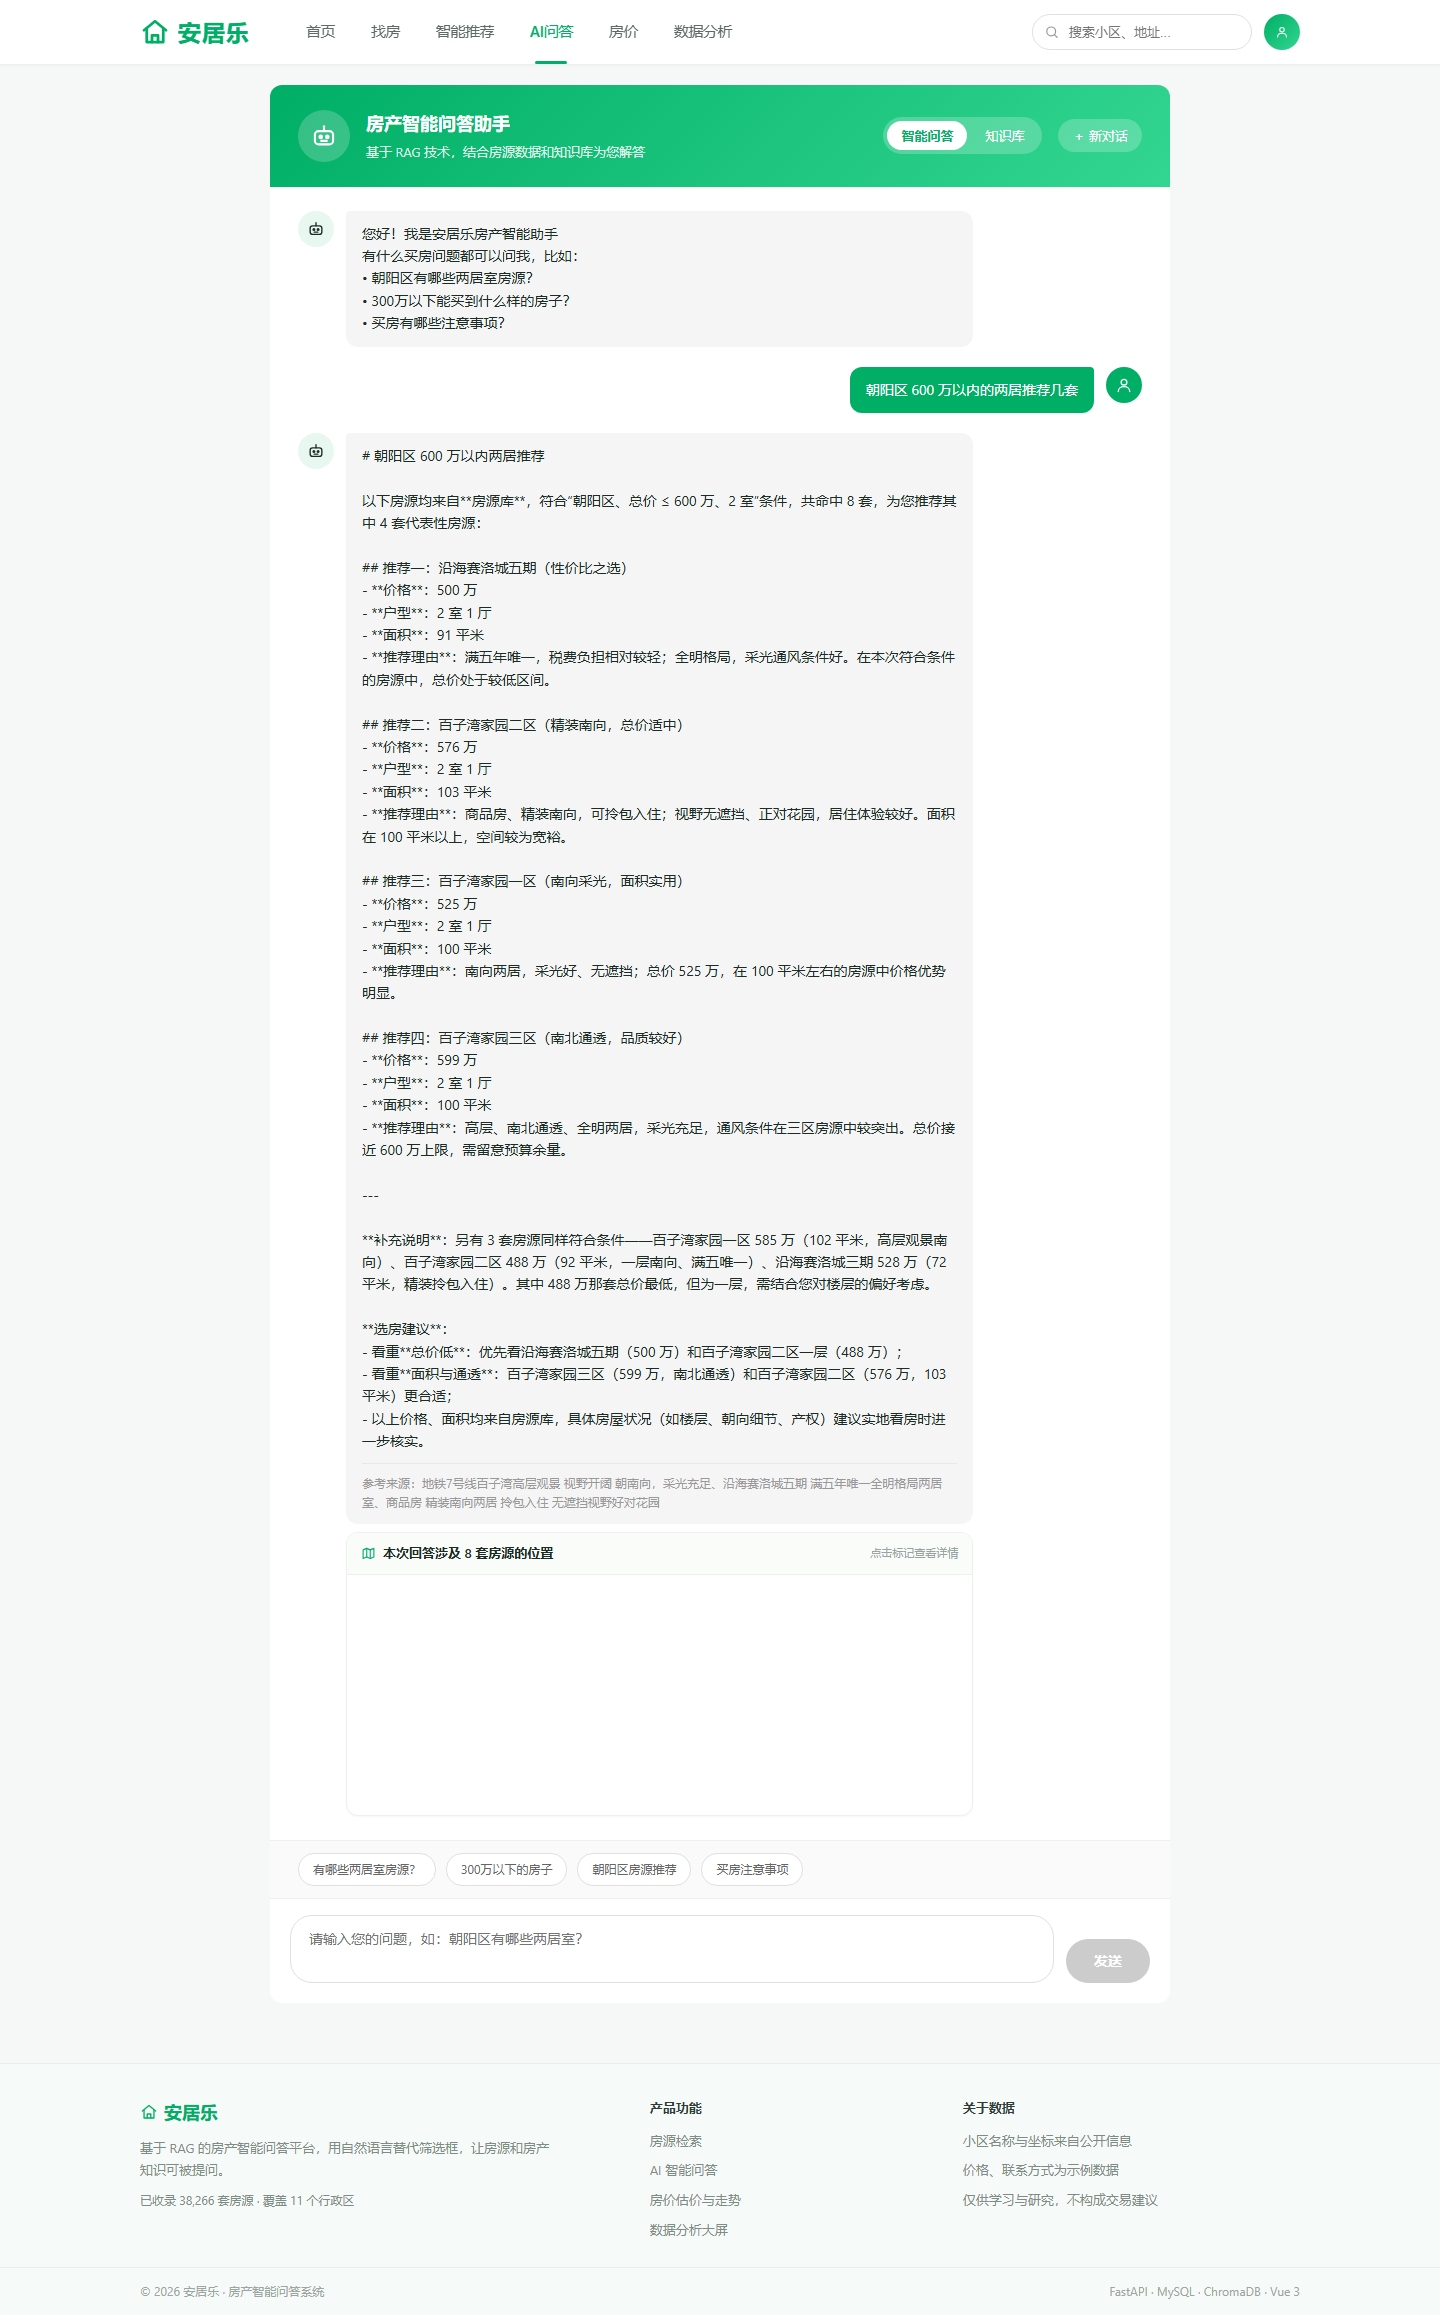
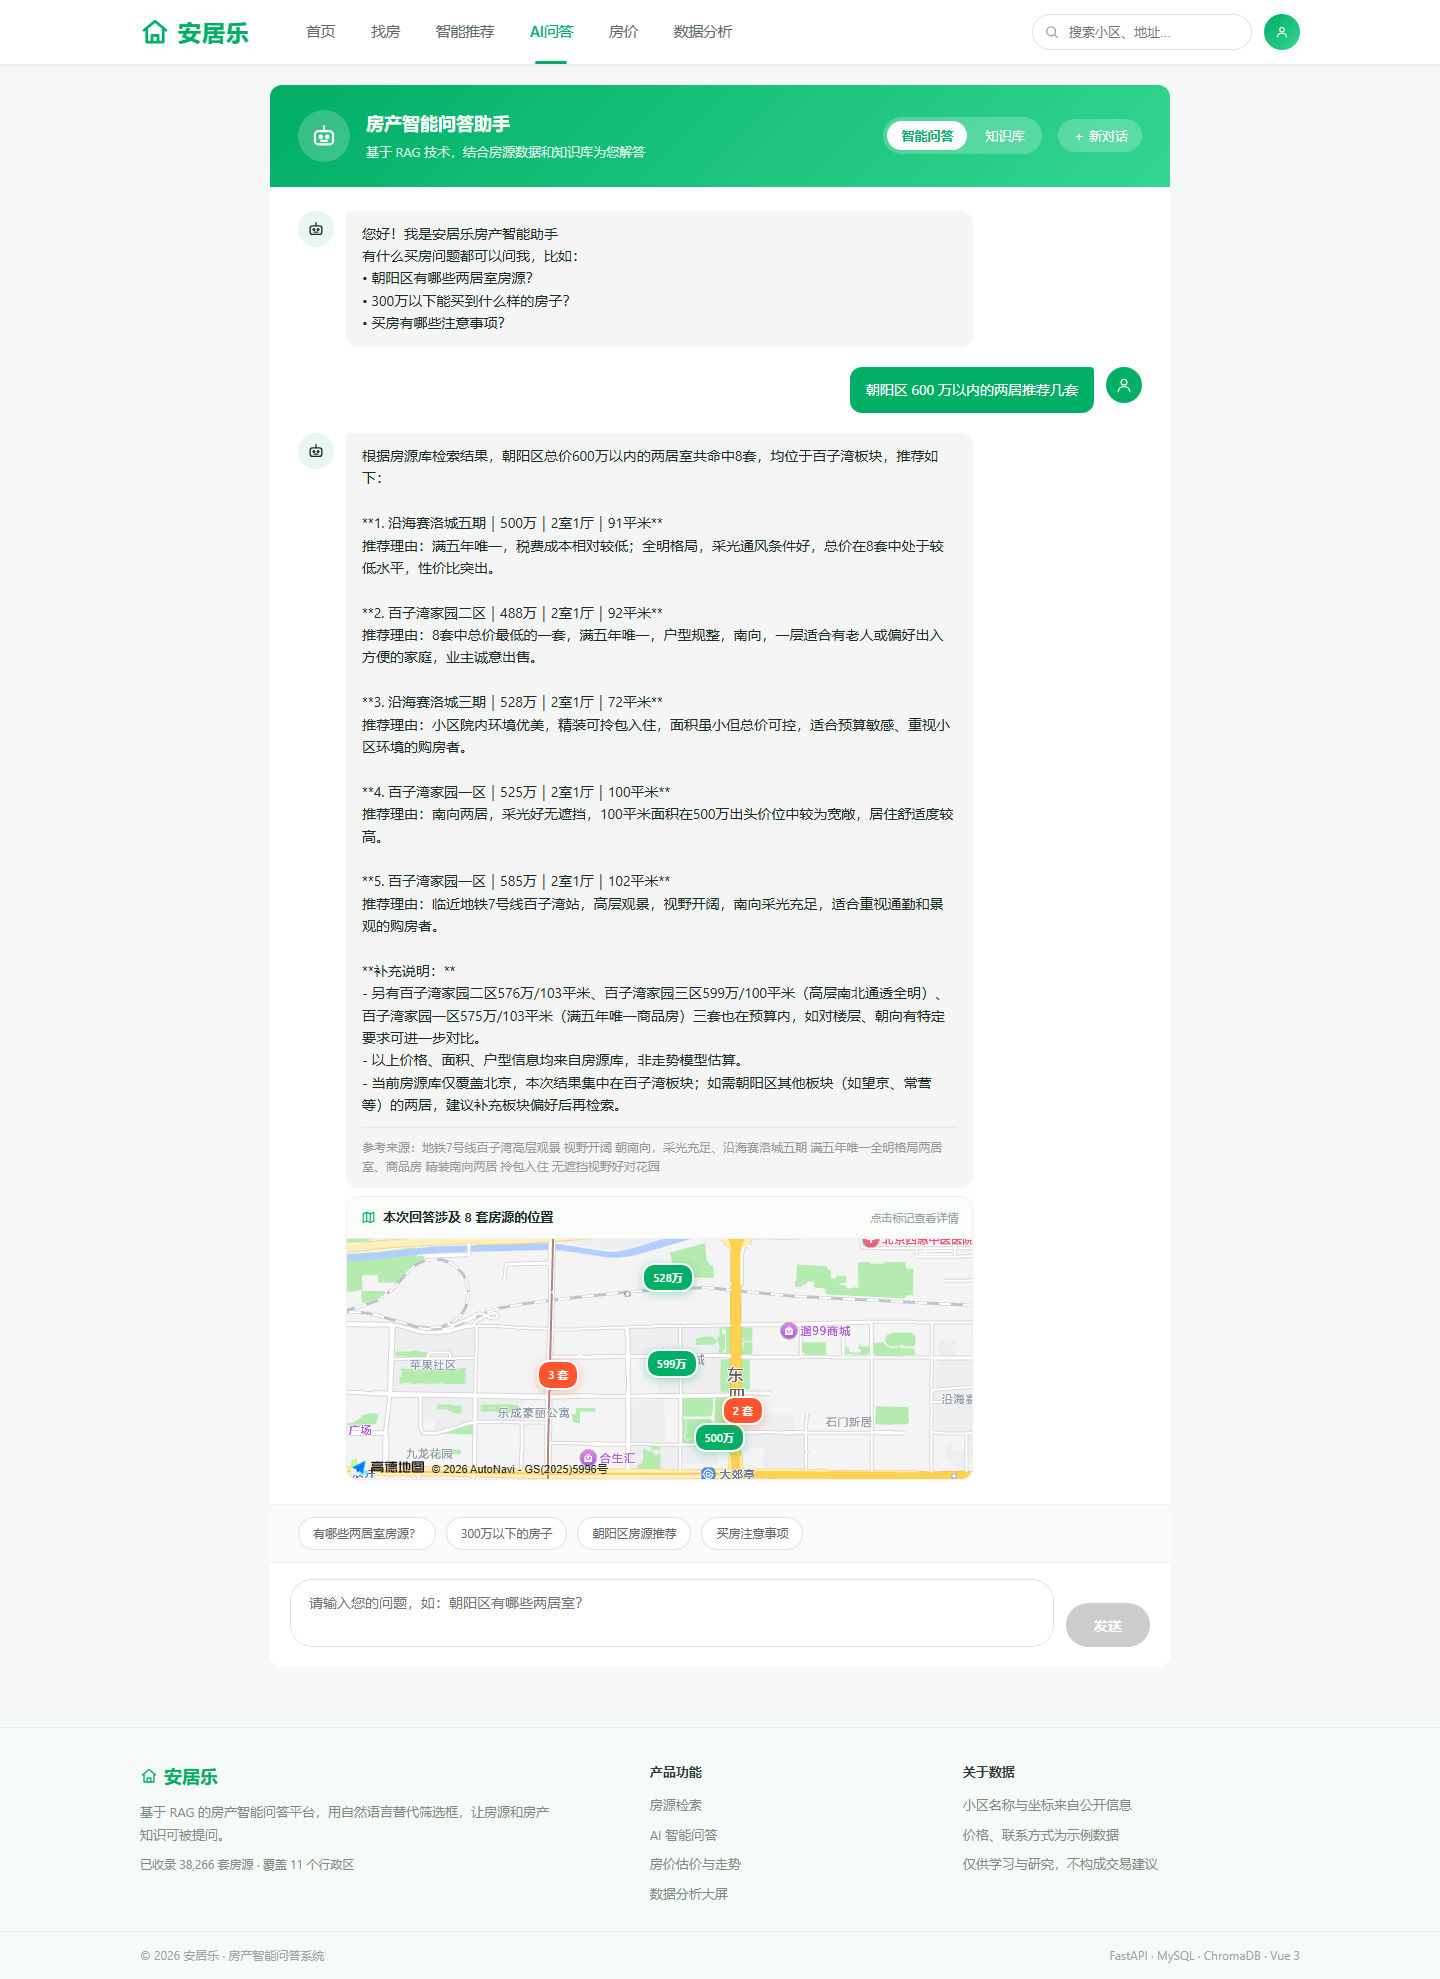
fix: 修复问答页房源地图不加载 SDK，统一访问地址为 127.0.0.1
- renderChatMap 补上 loadAmapSdk 调用，重试上限 30 次后输出日志（原先只重试、无上限、永不加载）

- 重新生成 AI 问答截图，包含本轮命中房源的聚合地图

- README 访问地址统一为 127.0.0.1，并说明高德 Key 白名单对 localhost / 127.0.0.1 的区分

- 问题记录补充 INVALID_USER_DOMAIN 条目

diff --git a/app/static/js/main.js b/app/static/js/main.js
@@ -1301,7 +1301,19 @@ const { createApp, ref, computed, watch, onMounted, nextTick } = Vue;
           const pois = (messages.value[idx] && messages.value[idx].externalPois) || [];
           const el = document.getElementById('chatMap-' + idx);
           if (!el || (!list.length && !pois.length)) return;
-          if (typeof AMap === 'undefined') { setTimeout(() => renderChatMap(idx), 500); return; }
+          if (typeof AMap === 'undefined') {
+            // 同 ensureNearbyMap：用户可能从首页直接进问答页，SDK 尚未注入，
+            // 只重试不加载会永远停在空白地图。这里主动拉起并限制重试次数。
+            loadAmapSdk();
+            const tries = (parseInt(el.dataset.mapRetry || '0', 10) || 0) + 1;
+            el.dataset.mapRetry = String(tries);
+            if (tries <= 30) {
+              setTimeout(() => renderChatMap(idx), 500);
+            } else {
+              console.warn('地图 SDK 未就绪，停止重试：请检查 AMAP_JS_KEY 与高德控制台的域名白名单');
+            }
+            return;
+          }
           // 切 tab 回来时 v-if 刚重建 DOM，浏览器可能还没完成 layout，容器是 0×0。
           // 此刻 new AMap.Map 会建出一个 0×0 画布，且之后不会自愈——表现就是
           // 「卡片标题都在、地图区域一片空白」。所以等容器真有尺寸再初始化。

diff --git a/README.md b/README.md
@@ -612,12 +612,18 @@ copy .env.example .env
 python run.py
 ```
 
-访问：
+访问（**统一用 `127.0.0.1`，不要用 `localhost`**，原因见下）：
 
-- 系统首页 http://localhost:8001/
-- 管理后台 http://localhost:8001/admin
-- Swagger http://localhost:8001/docs ｜ ReDoc http://localhost:8001/redoc
-- 健康检查 http://localhost:8001/health
+- 系统首页 <http://127.0.0.1:8001/>
+- 管理后台 <http://127.0.0.1:8001/admin>
+- Swagger <http://127.0.0.1:8001/docs> ｜ ReDoc <http://127.0.0.1:8001/redoc>
+- 健康检查 <http://127.0.0.1:8001/health>
+
+> **高德 Key 的域名白名单必须与访问地址一致。**
+> 高德把 `localhost` 和 `127.0.0.1` 当成两个不同域名：白名单只填了 `127.0.0.1` 时，
+> 用 `localhost` 打开不报页面错误，但浏览器控制台会打出
+> `FlyDataAuthTask error: INVALID_USER_DOMAIN`，地图能力随之失效。
+> 最省事的做法是在高德控制台把两个都加进白名单；只加一个的话，就必须用对应的那个地址访问。
 
 ### 首次使用
 
@@ -671,6 +677,8 @@ python run.py
 | 11 | 无坐标房源地图空白 | 建图函数直接 return | 空态提示「该房源暂无坐标」 |
 | 12 | 详情页周边地图一直「加载中」 | `ensureNearbyMap` 只重试不加载 SDK；没进过「地图找房」时 SDK 从未注入 | 建图前主动调一次 `loadAmapSdk()`（幂等） |
 | 13 | 有 POI 列表但地图上没有标记 | 周边数据先于 SDK 就绪，`renderNearbyPois` 因 `_dpMap` 尚未创建被跳过 | 地图 `complete` 回调里补画一次 |
+| 14 | 问答页「涉及 N 套房源」的地图空白 | `renderChatMap` 同样是只重试不加载 SDK，且重试无上限 | 主动 `loadAmapSdk()`，重试上限 30 次后打日志 |
+| 15 | 用 `localhost` 打开时地图能力异常 | 高德把 `localhost` / `127.0.0.1` 视为两个域名，白名单只填了后者 | 控制台报 `INVALID_USER_DOMAIN`；统一用 `127.0.0.1`，或白名单两个都加 |
 
 三条结论：
 
